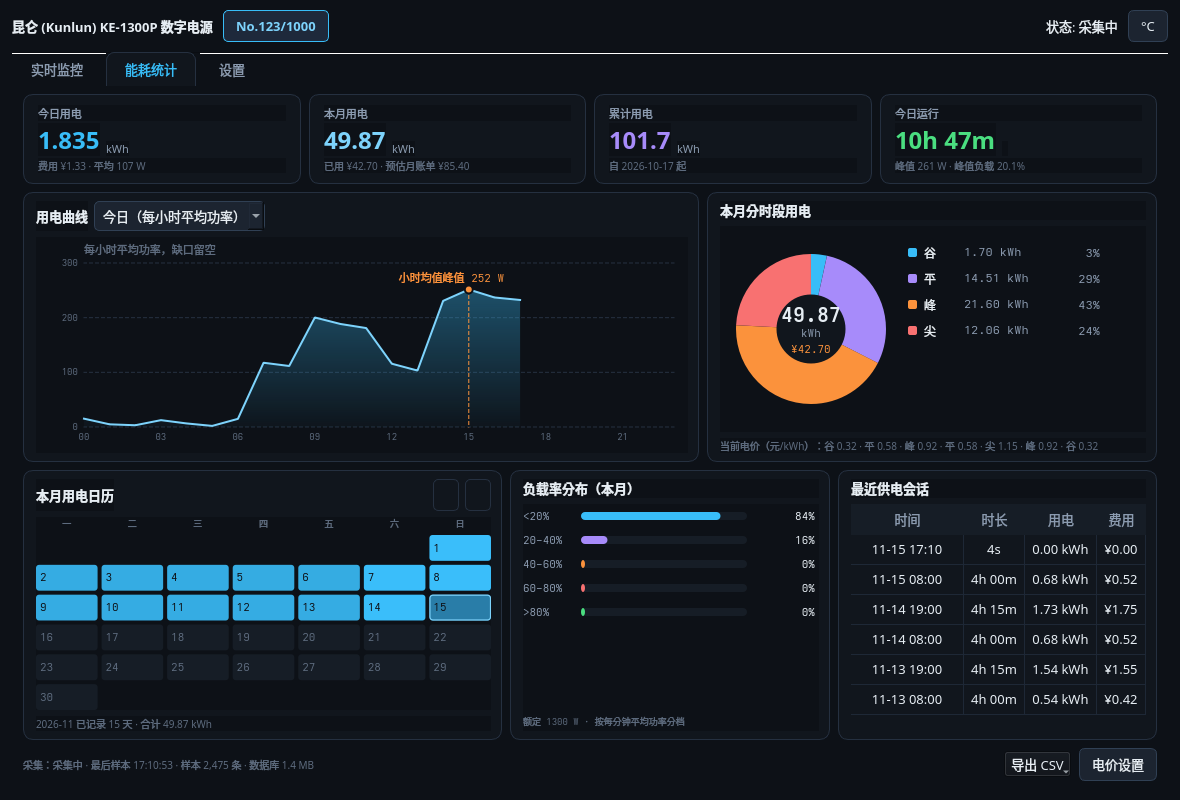
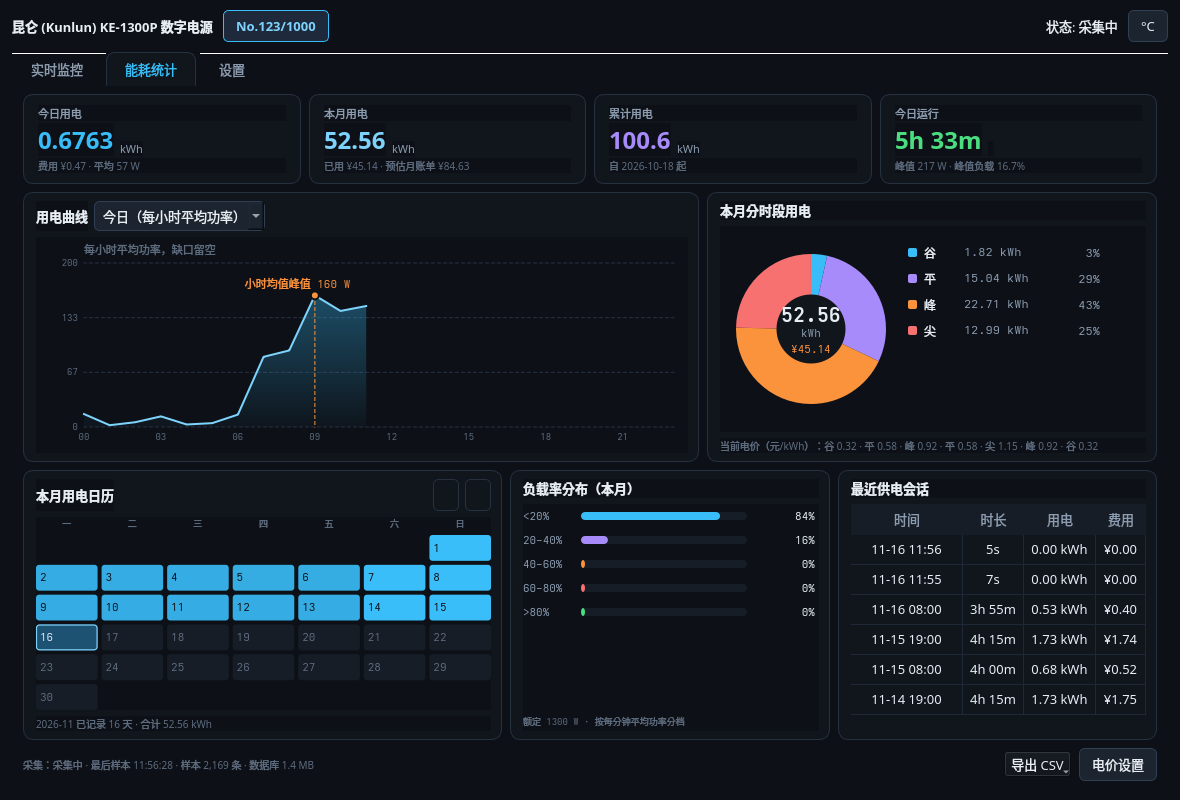
docs(readme): lead with screenshots, badges and a three-line quick start
The first screen used to open with protocol trivia, which buries the reason to
star the repo. Now it opens with a real GUI screenshot, the one-sentence pitch,
and clone/run commands; a two-up screenshot table follows.

Also add a compatibility note (verified model and firmware) and a demo-data
disclaimer under the images, since the serial in them is synthetic.

diff --git a/README.md b/README.md
@@ -1,27 +1,50 @@
-# himos-psu — 鑫谷 / 昆仑九重系列电源开源 Linux 上位机
+# himos-psu — 鑫谷 / 昆仑 HiMOS 数字电源 Linux 上位机
 
-基于对 `HiMOS 1.6.1` 与实机 `昆仑九重 KE-1300P`（CH340 `1A86:7523`, `115200` bps）逆向与抓包验证开发的轻量开源 Linux 监控、调速与能耗统计上位机，完全本地离线运行，无任何云端遥测或硬编码密钥。
+![license](https://img.shields.io/badge/license-MIT-blue.svg)
+![python](https://img.shields.io/badge/python-3.10%2B-blue.svg)
+![platform](https://img.shields.io/badge/platform-Linux-lightgrey.svg)
+
+**在 Linux 上监控并调速鑫谷 / 昆仑（Segotep / Kunlun）HiMOS 系列数字电源。**
+厂商只提供 Windows 上位机，这个项目把协议重写了一遍：实时电压/功率/温度、风扇曲线、以及本地的用电量与电费统计，全程离线、无遥测。
+
+![能耗统计页](docs/energy-dashboard.png)
+
+## 快速上手
+
+```bash
+git clone https://github.com/Betlund/himos_psu.git && cd himos_psu
+./bin/himos-psu list          # 自动发现 CH340 (1A86:7523) 电源
+./bin/himos-psu-gui           # 桌面面板；无硬件时加 --mock
+```
+
+只要 Python ≥ 3.10，Linux 下串口走标准库 `termios`，**不需要装 pyserial**；GUI 需要 `PySide6`。
+
+## 截图
+
+| 实时监控 | 能耗统计 |
+|---|---|
+| ![实时监控](docs/realtime-dashboard.png) | ![能耗统计](docs/energy-dashboard.png) |
+
+> 截图使用 `--mock` 的合成设备与示例数据，序列号与编号均非真实值。
 
 ## 特性
 
 - **零额外串口依赖**：Linux 下通过标准库 `termios` / `select` + `/sys/class/tty` 自动发现 `1A86:7523` 串口（跨平台亦可选用 `pyserial`）。
 - **协议 1:1 精准实现并修正实机差异**：
-  - 自动顺序下发 `POWER_INFO(sub=0)`（型号/规格/代工 `segotep`/SN）与 `POWER_INFO(sub=53)`（固件日期 `V4.24.09.20`）并合并。
-  - 同时兼容 PC 发送端 `crc8(commandContent)` 与 `KE-1300P` 固件接收端 `crc8(header + commandContent)` 双口径校验。
+  - 自动顺序下发 `POWER_INFO(sub=0)`（型号/规格/代工 `segotep`/SN）与 `POWER_INFO(sub=53)`（固件日期）并合并。
+  - 同时兼容 PC 发送端 `crc8(commandContent)` 与实机固件接收端 `crc8(header + commandContent)` 双口径校验。
   - 完整解析 `+3.3V / +5V / +12V / +5VSB`、`输入功率 / 输入电压 / 频率`、高压区 / 低压区 / 环境三路温度、风扇转速与故障码。
   - 严格复刻 `ControlChart` 与 `x9` 分段线性重采样生成 27 字节自定义温控风扇曲线。
 - **CLI + PySide6 原生桌面 GUI**：命令行实时监控、JSON 输出、原始十六进制嗅探；GUI 分「实时监控 / 能耗统计 / 设置」三页，含 5 点可拖拽风扇曲线编辑器。
-- **能耗统计（v0.2 新增）**：后台采集并把输入功率积分成 kWh，支持固定电价与峰谷（尖/峰/平/谷）电价、今日/本周/本月/今年报表、月历热力图、负载率分布、供电会话、CSV/JSON 导出与改价重算历史费用。
+- **能耗统计**：后台采集并把输入功率积分成 kWh，支持固定电价与峰谷（尖/峰/平/谷）电价、今日/本周/本月/今年报表、月历热力图、负载率分布、供电会话、CSV/JSON 导出与改价重算历史费用。
 
-## 快速上手
-
-在本仓库目录下无需安装包即可直接使用（显式调用系统 `/usr/bin/python3`）：
+## 命令行
 
 ```bash
 # 查看检测到的电源串口
 ./bin/himos-psu list
 
-# 读取 KE-1300P 规格、版本号、序列号与徽章状态
+# 读取规格、固件版本、出厂日期、序列号与徽章状态
 ./bin/himos-psu info
 
 # 持续刷新监控遥测数据（Ctrl+C 退出）
@@ -94,16 +117,30 @@ GUI 的「能耗统计」页会随采集自动刷新；采集进程与 GUI **互
 ./bin/himos-psu energy export --kind sessions --out -       # 供电会话
 ```
 
-### GUI
-
-`./bin/himos-psu-gui` 打开后切到「能耗统计」页：KPI 卡、今日/近 7 天/近 30 天曲线、
-本月分时段占比、月历热力图、负载率分布、最近供电会话，以及导出与电价设置入口。
-
-![能耗统计页](docs/energy-dashboard.png)
-
 ## 权限说明
 
-若普通用户无权打开 `/dev/ttyUSB0`，可将用户加入串口所属用户组（如 `uucp` 或 `dialout`），或通过 `./bin/himos-psu udev-rule` 生成标准 `1a86:7523` udev 规则。
+若普通用户无权打开 `/dev/ttyUSB*`，可将用户加入串口所属用户组（如 `uucp` 或 `dialout`），或通过 `./bin/himos-psu udev-rule` 生成标准 `1a86:7523` udev 规则。
+
+## 兼容性
+
+在 `昆仑九重 KE-1300P`（CH340，固件 `V4.24.09.20`）上逆向并实测通过。
+其他使用 HiMOS 上位机、同样是 CH340 转串口的型号理论上通用，但未逐款验证——如果你测试成功，欢迎开 issue 报告型号。
+
+## 开发与测试
+
+```bash
+# 单元测试（协议、能耗积分、电价、GUI 离屏渲染）
+/usr/bin/python3 -m unittest discover -s tests
+
+# 完整本地流水线：语法 + 测试 + 隐私扫描（工作区/暂存区/全历史）
+./tools/pipeline.sh
+
+# 无硬件联调：先用 mock 电源采集一段，再查看报表
+./bin/himos-psu --mock collect --db /tmp/demo.db
+./bin/himos-psu energy --db /tmp/demo.db today
+```
+
+测试覆盖真实抓包帧解码、CRC 双口径、分包重同步、梯形积分与断档、峰谷边界、改价重算、CSV 导出、采集锁互斥，以及 GUI 三个页签的离屏渲染。
 
 ## 开源协议
 
@@ -113,16 +150,6 @@ GUI 的「能耗统计」页会随采集自动刷新；采集进程与 GUI **互
 未获其授权或背书。产品名称与型号仅用于说明兼容性。使用本工具可能使电源运行在非出厂设定的
 风扇曲线上，请自行评估风险；因使用本软件造成的任何损失，作者不承担责任。
 
-## 开发与测试
+---
 
-```bash
-# 单元测试（协议、能耗积分、电价、GUI 离屏渲染）
-/usr/bin/python3 -m unittest discover -s tests
-
-# 无硬件联调：先用 mock 电源采集一段，再查看报表
-./bin/himos-psu --mock collect --db /tmp/demo.db
-./bin/himos-psu energy --db /tmp/demo.db today
-```
-
-测试覆盖真实抓包帧解码、CRC 双口径、分包重同步、梯形积分与断档、峰谷/阶梯边界、
-改价重算、CSV 导出、采集锁互斥，以及 GUI 三个页签的离屏渲染。
+如果这个项目帮你省下了折腾的时间，点个 ⭐ 是最大的鼓励；有问题或新机型适配欢迎开 issue。
